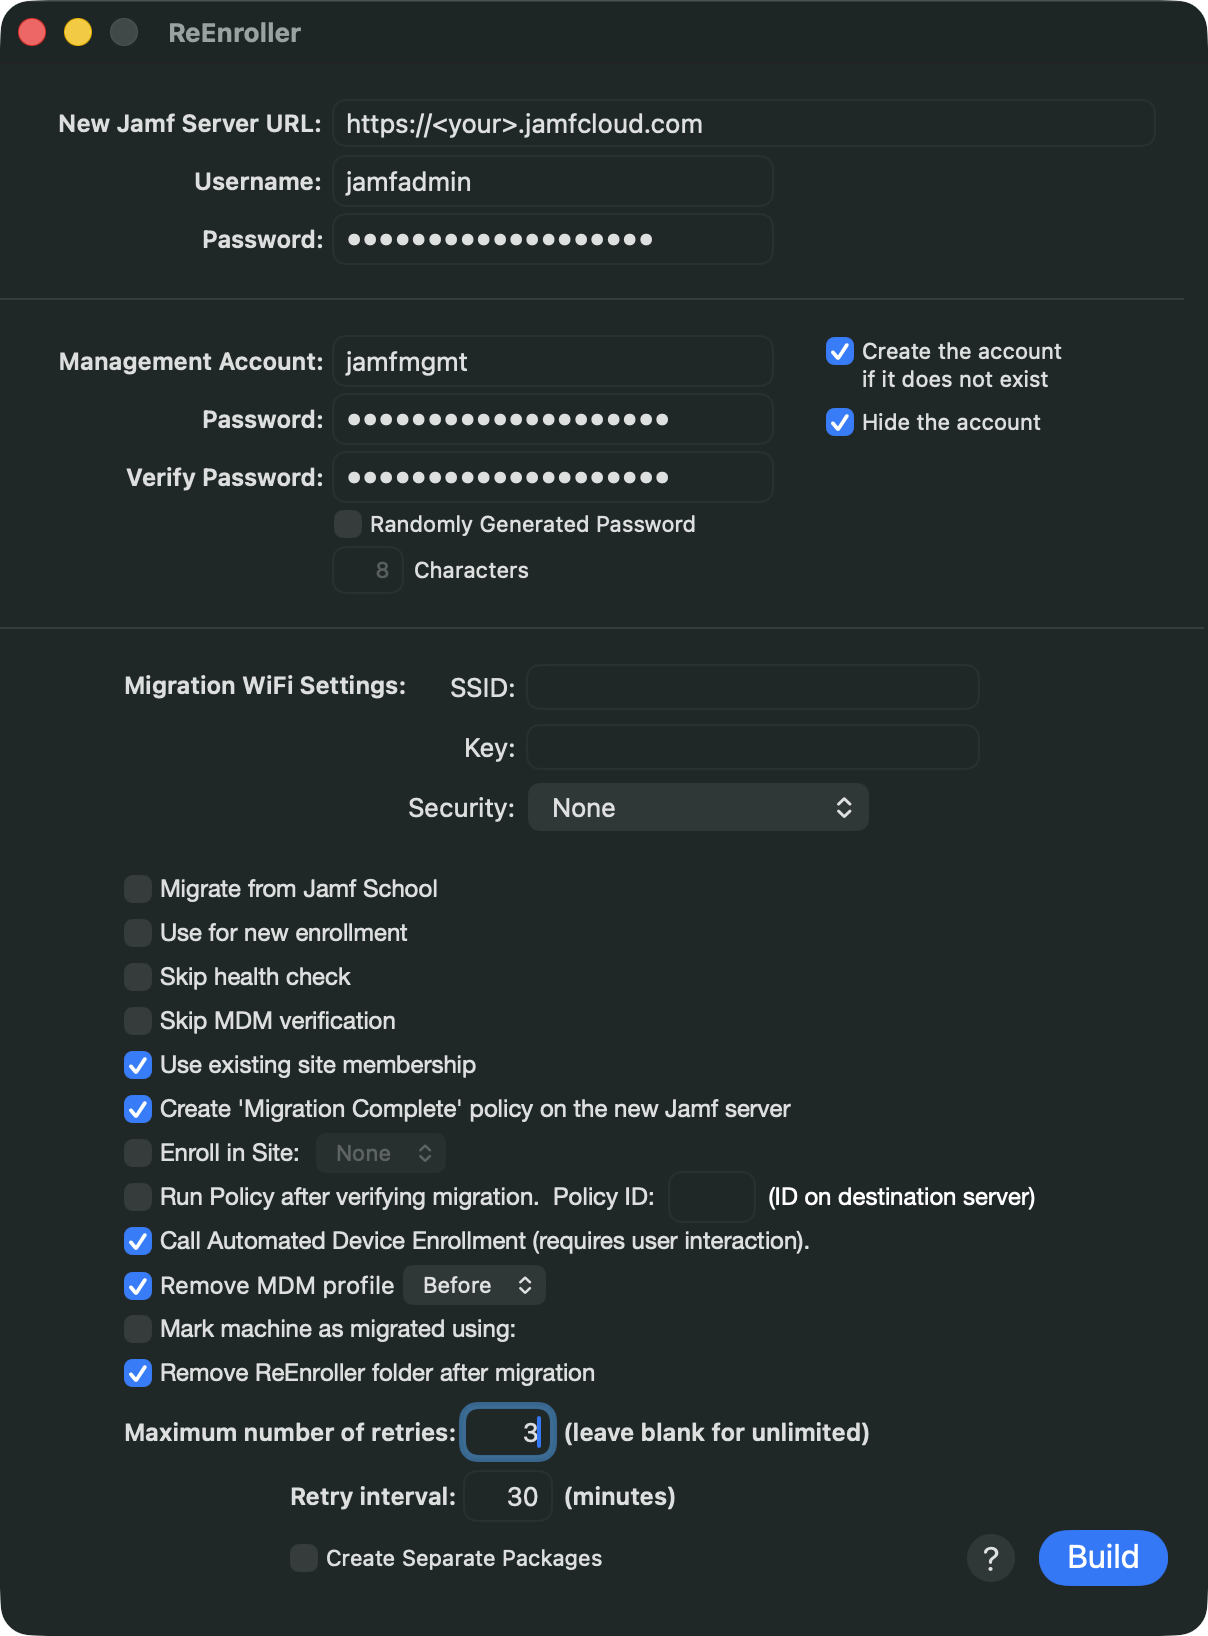
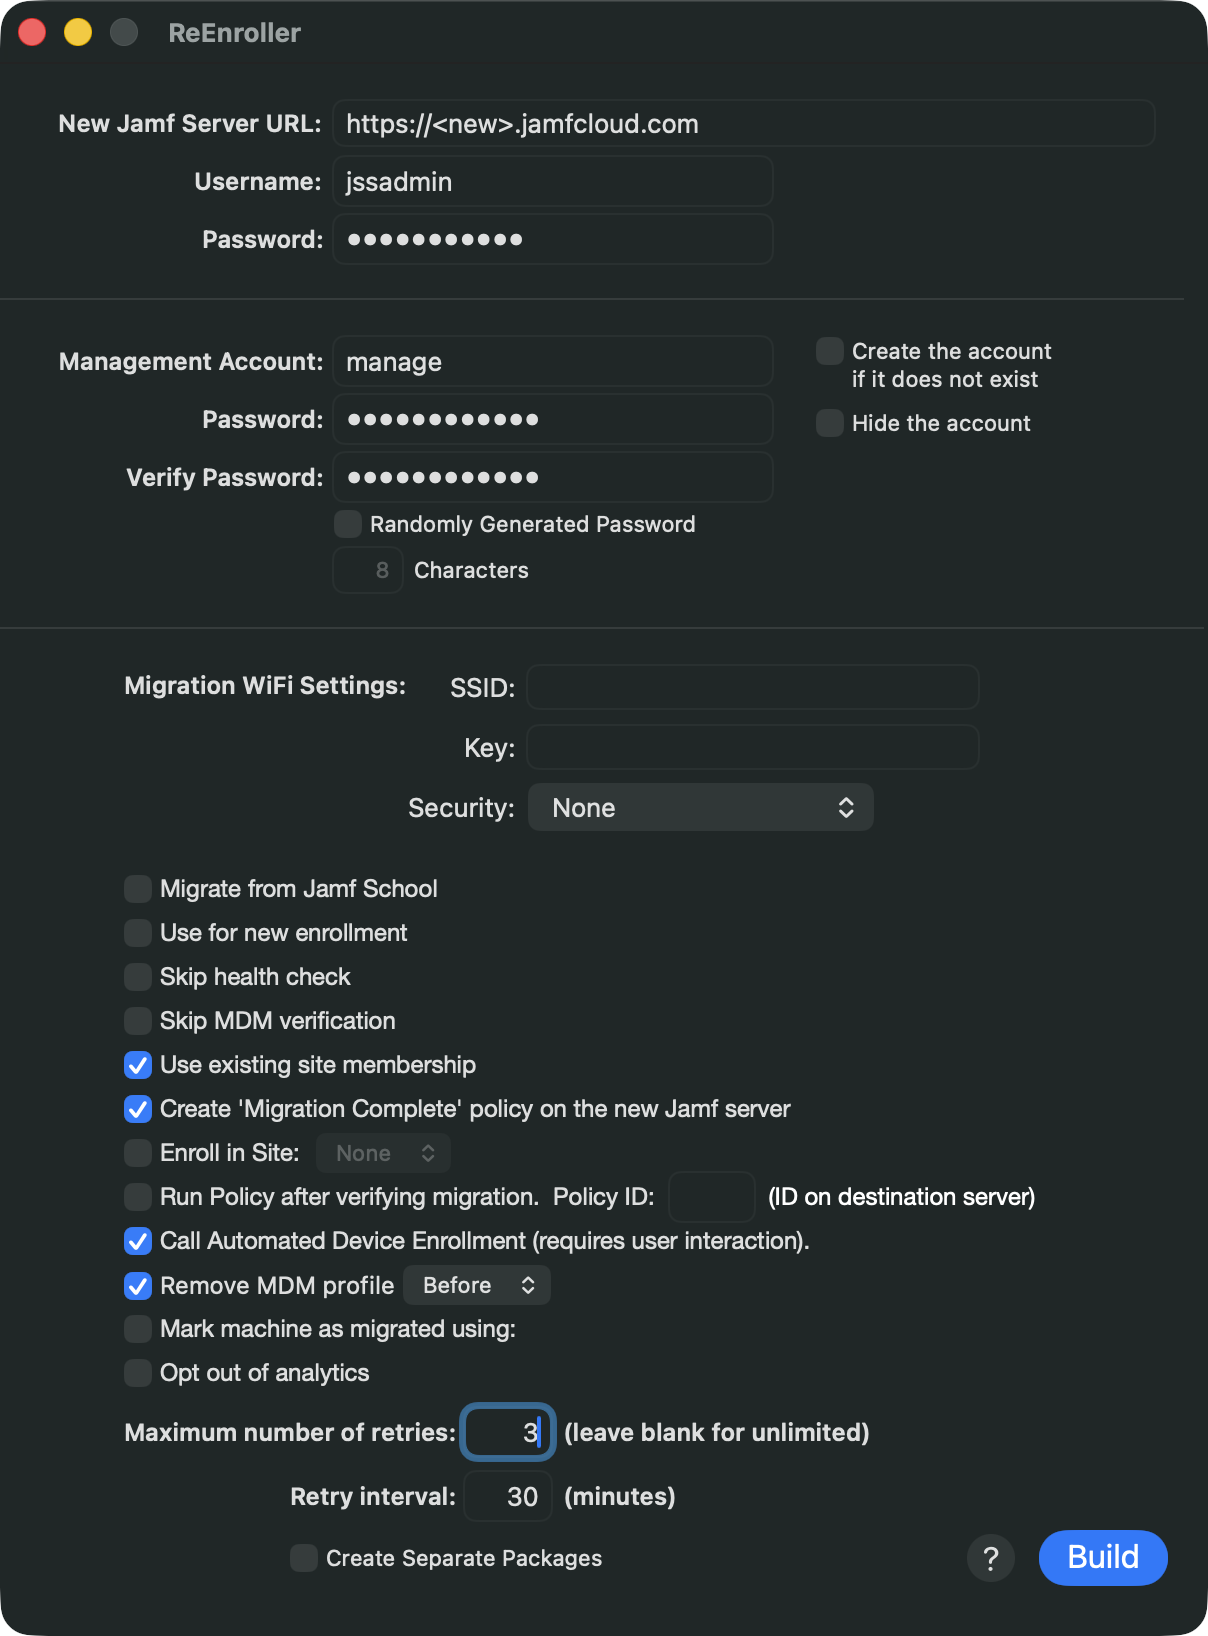
update help

diff --git a/ReEnroller/help/help.html b/ReEnroller/help/help.html
@@ -165,7 +165,7 @@ a:hover
     <li>If calling device enrollment be sure the devicd has been assigned to a prestage in the new environment.</li>
     <li>You can mark the machine as migrated by updating an attribute in the device record in the old server.</li>
     <li>Select when to remove the MDM profile installed by the source Jamf Pro server, or leave it on the machine to be removed later. If before, configure the apiMDM_remove script on the source (server you're migrating from) server. If after, configure the apiMDM_remove script on the destination (server you're migrating to) server. See the instructions below to ensure the script/policy is properly configured on the correct server.</li>
-    <li>By default the package cleans up once migration is complete.&nbsp; If you'd like to keep things in place uncheck the box for removing the ReEnroller folder.</li>
+    <li>Select opt out if you do not want anonymous data sent to <a href="telemetrydeck.com" target="_blank">TelemetryDeck</a></li>
     <li>If desired set the number of times the client will try the enrollment process in the event it fails for some reason.  Leaving the field blank will set the client to keep retrying until successful.</li>
     <li>Set an interval for the process to retry re-enrollment (5 minutes or greater) in the event it fails, or keep the default of 30 minutes.  You are able to separate the launch daemon/postinstall script from the re-enrollment application by checking the box, 'Create Separate Package'.  With the box checked 2 packages will be created, one with the launchdaemon and postinstall script, the other with the re-enrollment application and settings.  This allows one to stage the application then deploy the launch daemon at a later date, or create a custom launch daemon, say to repair enrollments that have failed over time.</li>
     </ul>
@@ -254,7 +254,7 @@ As the ReEnroller package is built the following will be created on the destinat
 Note, these objects are not updated when new packages are built and must be deleted from Jamf Pro if say you change the API key.
 <div><hr></div>    
     
-<strong>High Sierra (10.13) and later:</strong>
+<strong>HMDM Profile removal:</strong>
 <div id="main_body" style="position:relative;">
 <div style="font-family:Arial;font-size:13px;line-height:15px;color:#000000;">
 Starting with 10.13 Apple added /var/db/ConfigurationProfiles to SIP.  To ensure the MDM payload is removed additional setup is required, creating a script and policy for MDM removal.
@@ -447,18 +447,22 @@ Starting with 10.13 Apple added /var/db/ConfigurationProfiles to SIP.  To ensure
     echo getcwd();
 ?>
 </span></pre></div>
-    Create a policy to deploy the script on the source server (server you are migrating from).  <b>The policy must have a custom trigger of apiMDM_remove</b>.  Also set the policy to Ongoing.
+    On the source server, create an API client with the following privileges:
+    <li>Create Computers</li>
+    <li>Read Computers</li>
+    <li>Send Computer Unmanage Command</li><br>
+
+    If remove MDM profile is set to before, add the script and create a policy on the source server, otherwise add the script and create the policy on the destination server. <b>The policy must have a custom trigger of apiMDM_remove</b>. The policy can be scoped to All Computers with an Execution Frequency set to Ongoing.
+
 <div id="jpsImage2">
 <img src="images/mdmRemove_general.png" alt=""></div>
-    The script requires 2 parameters, a Jamf Pro API client and secret. If the MDM profile is to be removed prior to (before) enrolling in the new serve, add the script/policy to the Jamf Pro server that the machine is being unenrolled.<p>
-
-    The account must have at least Computers Create and Read (Jamf Pro Server Objects) along with Send Computer Unmanage Command (Jamf Pro Server Actions). The account (API client) is always set up on the Jamf Pro server that the machine is being unenrolled.<p>
+    The script requires 2 parameters, a Jamf Pro API client and secret.<p>
     
-    A third parameter may be also be provided, the current Jamf server the client has received it's MDM profile from.  If the parameter is not provided the server will be read from com.jamfsoftware.jamf.plist.  <strong>If the MDM profile is removed after enrollment in the new server the Jamf URL parameter must be provided, the URL being the server the client was migrated from.  The script/policy must also be set up on the destination server.</strong>
+    A third parameter may be also be provided, the current Jamf server the client has received it's MDM profile from.  If the parameter is not provided the server will be read from com.jamfsoftware.jamf.plist.  <strong>If remove MDM profile is set to After the Jamf URL parameter must be provided, the URL being the server the client was migrated from.</strong>
 <div id="jpsImage2">
 <img src="images/mdmRemove_script.png" alt=""></div>
 </div>
-    The script could also be added to the policy that deploys the reEnrollment package, if you'd like the profile removed before the new enrollment. Be mindful that once the MDM profile is removed all other profiles will be removed, potentially impacting the user experience. 
+    The script could also be added to the policy that deploys the reEnrollment package, if you'd like the profile removed before the new enrollment. Be mindful that once the MDM profile is removed all other profiles will be removed, potentially impacting the user experience or dropping the network connection. 
 <div><hr></div>
 </div>
 </body>
